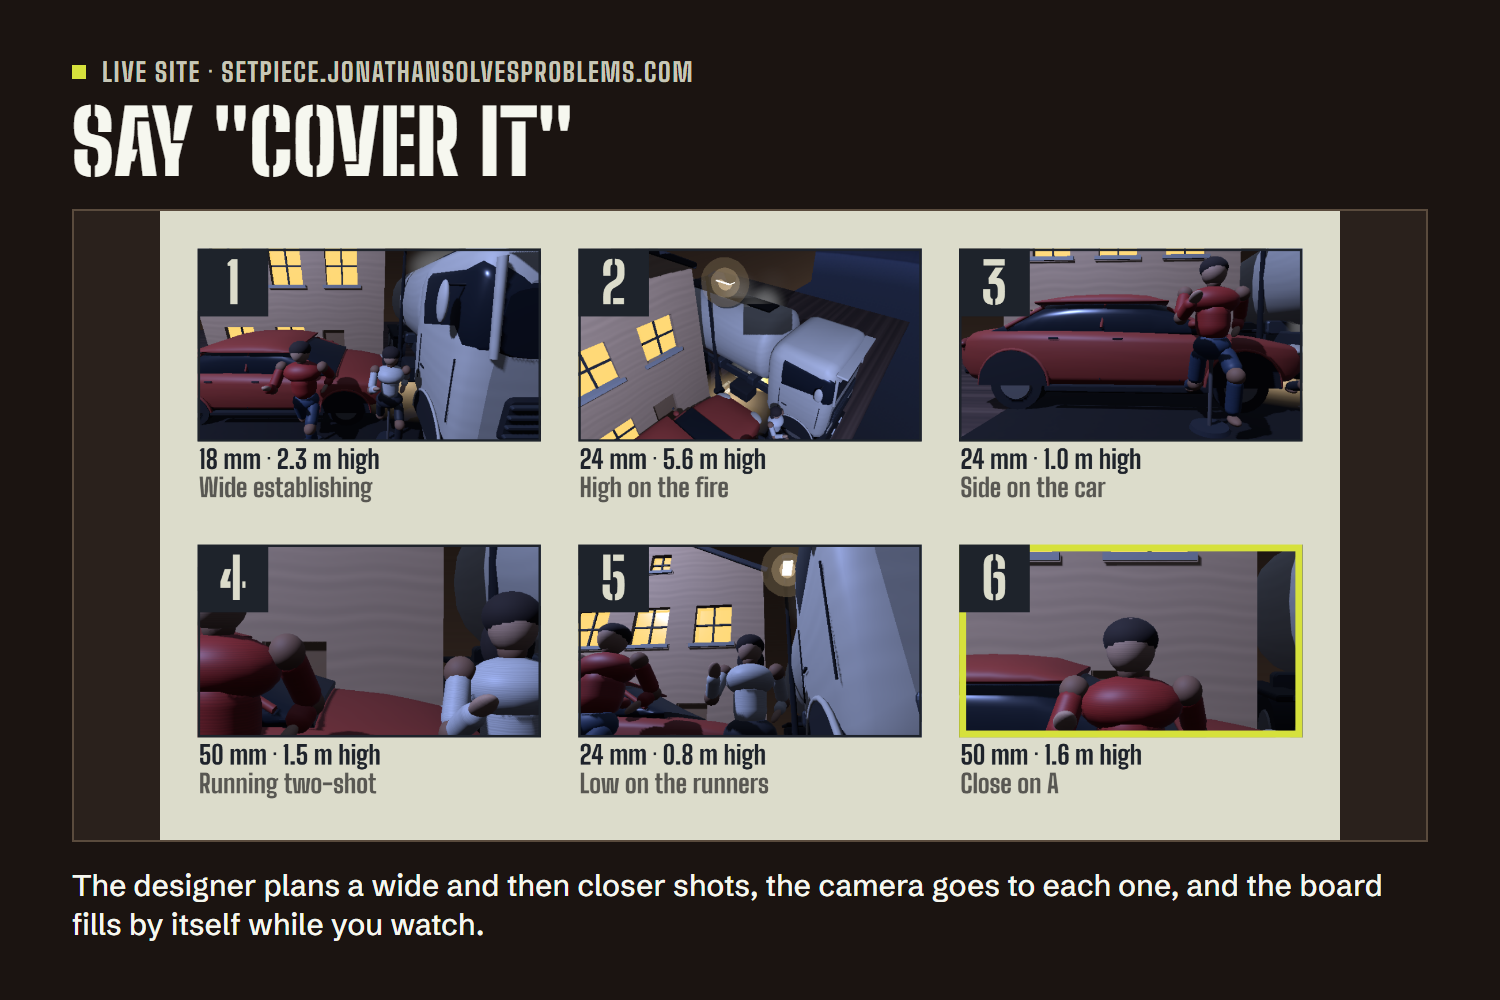
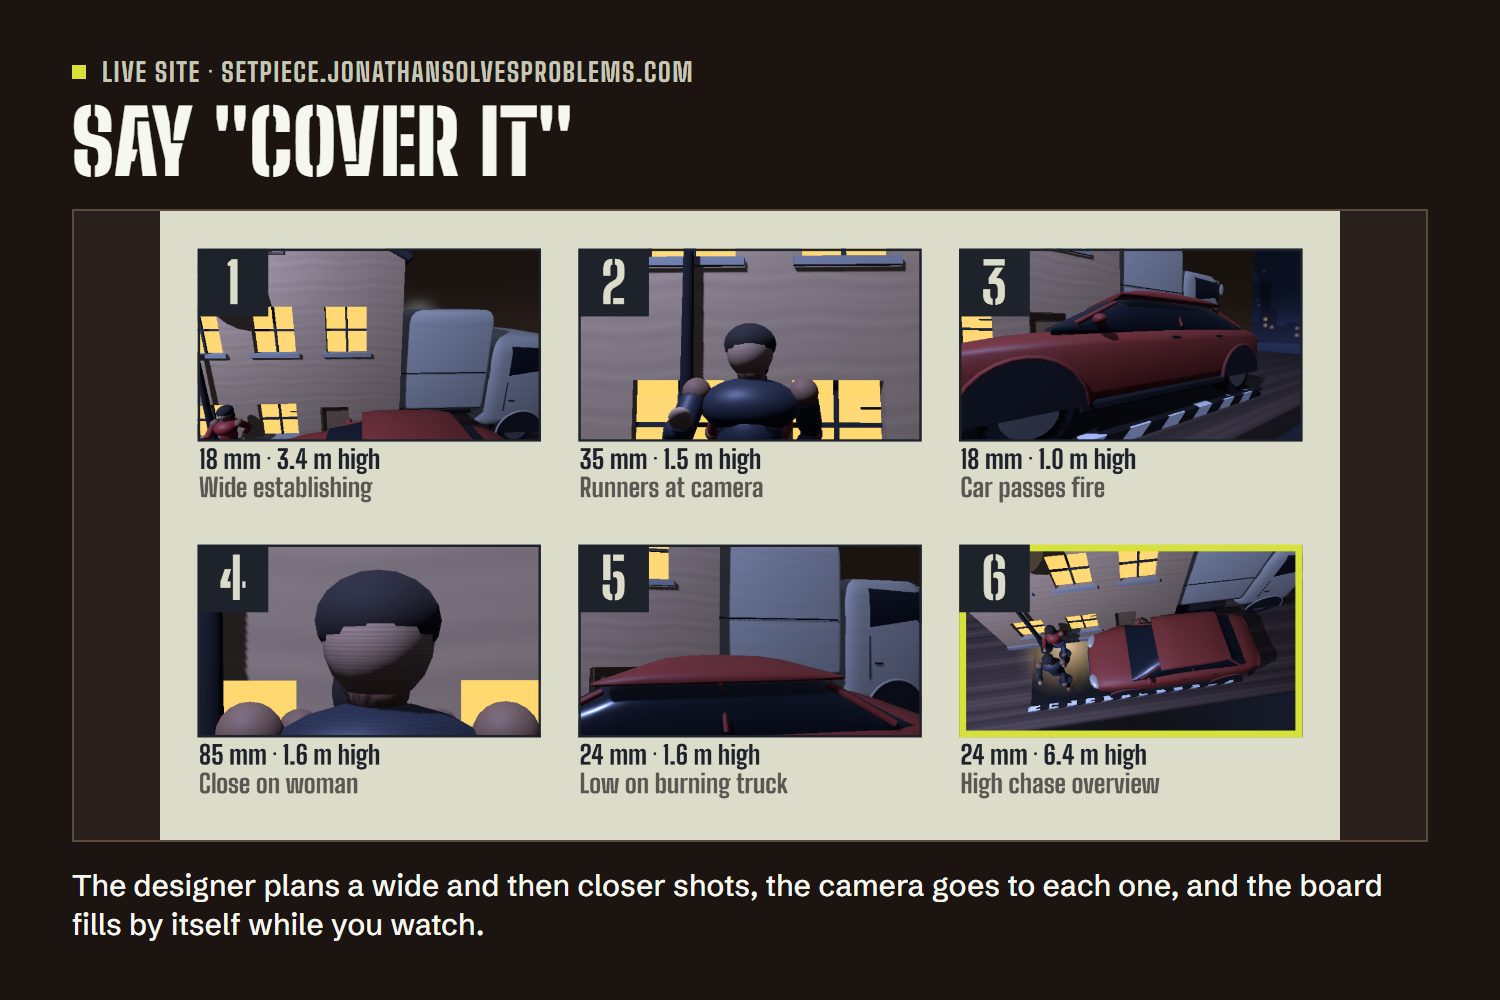
Fire the designer puts inside a truck burns from the truck's roof: it stood on the ground inside the box, hidden; smoke, sparks and an explosion the same. The saved-board slide shows the shot list as a table

diff --git a/src/director.ts b/src/director.ts
@@ -86,6 +86,14 @@ const ROOM = { halfX: 0.3, halfZ: 0.2, overhang: 0.01, bodyGap: 0.01, solidGap: 
 const BODY_HALF = 0.025;
 /** Higher than this off the ground, a piece is up on something or flying, and the set dresser leaves it be. */
 const RAISED = 0.01;
+/**
+ * How tall each burning effect is, on the slate. One standing on the ground inside a solid piece taller than this
+ * share of it is hidden, and is stood so that this share of it is sunk below the piece's top: fire on a truck burns
+ * from the truck's roof, not inside its box.
+ */
+const BURNS: Record<string, number> = { Fire: 0.18, Smoke: 0.3, Sparks: 0.12, Explosion: 0.2 };
+const BURN_HIDDEN = 0.45;
+const BURN_SUNK = 0.3;
 /** A piece the set dresser moves less than this (slate metres, 10 cm real) is slid, not dropped again. */
 const NUDGE = 0.01;
 /** A raised piece rests on a top no more than this above its own height (slate metres, 6 cm real). */
@@ -768,6 +776,7 @@ class PlanBuild {
     // roof slab, not on the chimney, and not on a taller truck parked beside the house); an effect on the ground
     // stands on the smallest footprint around it (the car, not the house front behind it).
     const under = new Map<Standing, Standing>();
+    const lifts: [Standing, number][] = [];
     const supports: { one: Standing; foot: Footing; top: number }[] = [];
     for (const one of standing) {
       if (one.base.shelf === 'Effects' || one.rest > RAISED) continue;
@@ -785,6 +794,7 @@ class PlanBuild {
       if (one.base.shelf !== 'Effects' && one.rest <= RAISED) continue;
       const raised = one.rest > RAISED;
       let best: Standing | null = null;
+      let bestTop = 0;
       let score = Infinity;
       for (const support of supports) {
         if (support.one === one || !holds(support.foot, one.object.position.x, one.object.position.z)) continue;
@@ -793,9 +803,13 @@ class PlanBuild {
         if (value < score) {
           score = value;
           best = support.one;
+          bestTop = support.top;
         }
       }
       if (best != null) under.set(one, best);
+      // Flames put on the ground inside the thing that burns are hidden by it: they go up to burn from its top.
+      const reach = BURNS[one.base.spareOf ?? one.base.label];
+      if (best != null && !raised && reach !== undefined && this.placed.has(one.label) && bestTop > reach * BURN_HIDDEN) lifts.push([one, bestTop - reach * BURN_SUNK]);
     }
     const moves: Moved[] = [];
     const apply = (feet: Footing[], owners: (Standing | null)[]): void => {
@@ -865,6 +879,11 @@ class PlanBuild {
     // A piece moved far enough to see drops onto its new mark; a nudge is only a nudge.
     for (const move of moves) {
       if (Math.hypot(move.dx, move.dz) >= NUDGE) drop(move.standing.entity, move.standing.object, move.standing.rest);
+    }
+    for (const [one, y] of lifts) {
+      one.rest = y;
+      this.restY.set(one.label, y);
+      drop(one.entity, one.object, y);
     }
     this.world.getSystem(ViewfinderSystem)?.refresh();
     return moves.length;

diff --git a/tools/gallery.py b/tools/gallery.py
@@ -121,7 +121,7 @@ SLIDES = [
     dict(slug='fps', badge='Result · devpost/results/quest-frame-rate.json and quest-frame-time.json', headline='{fps_median} frames a second, median', picture=('result', 'fps'),
          caption='{fps_samples} one-second samples, {fps_days} Nov: median {fps_median}, lowest {fps_min}. A heavier set on 11 Nov ran at {heavy_fps}, {heavy_then}.'),
     dict(slug='leave', badge=LIVE_BADGE, headline='You leave holding something', picture=('live', 'exports'),
-         caption='Saved from the page: the board the designer shot, each frame with its numbers and its name, and the shot list as a CSV for the crew.'),
+         caption='Saved from the page: the board the designer shot, each frame with its lens and height, and the shot list as a CSV for the crew.'),
     dict(slug='camera', badge=QUEST, headline='Format, rig, second camera', picture='captures/quest-camera-tab.jpg',
          caption='Four sensor formats, a tripod or a drone up to 11 m on the real set, and a second camera you can cut to while a take records.'),
 ]
@@ -594,24 +594,36 @@ async def live_capture(browser, recipe: str, out: Path) -> Path:
                 csv_path = out / 'saved-shot-list.csv'
                 await (await waiting.value).save_as(str(csv_path))
                 board = Image.open(board_path).convert('RGB')
-                rows = list(csv.reader(io.StringIO(csv_path.read_text(encoding='utf-8'))))[:4]
-                width, height = 2400, 1300
+                rows = list(csv.reader(io.StringIO(csv_path.read_text(encoding='utf-8'))))
+                # As wide as the slide's picture frame (1356 by 632), so nothing is left dark around it.
+                width, height = 2712, 1264
                 sheet = Image.new('RGB', (width, height), (42, 33, 28))
-                bw = 1500
+                bw = 1720
                 bh = int(board.height * bw / board.width)
-                sheet.paste(board.resize((bw, bh)), (0, (height - bh) // 2))
+                sheet.paste(board.resize((bw, bh)), (40, (height - bh) // 2))
                 draw = ImageDraw.Draw(sheet)
-                font = ImageFont.truetype(str(ROOT / 'public/ui/fonts/SchibstedGrotesk-Medium.ttf'), 30)
-                head = ImageFont.truetype(str(ROOT / 'public/ui/fonts/BigShoulders-Bold.ttf'), 40)
-                draw.text((1560, 60), 'SETPIECE-SHOT-LIST.CSV', font=head, fill=(199, 199, 183))
-                y = 140
+                font = ImageFont.truetype(str(ROOT / 'public/ui/fonts/SchibstedGrotesk-Medium.ttf'), 38)
+                head = ImageFont.truetype(str(ROOT / 'public/ui/fonts/BigShoulders-Bold.ttf'), 46)
+                left = bw + 110
+                draw.text((left, 150), 'SETPIECE-SHOT-LIST.CSV', font=head, fill=(214, 225, 60))
                 header, body = rows[0], rows[1:]
-                for record in body:
-                    for name, cell in list(zip(header, record))[:5]:
-                        draw.text((1560, y), name, font=font, fill=(199, 199, 183))
-                        draw.text((1990, y), cell, font=font, fill=(246, 247, 239))
-                        y += 40
-                    y += 30
+                at = {name: header.index(name) for name in ('Frame', 'Shot', 'Lens mm', 'Camera height m')}
+                columns = [('Frame', '#', 0), ('Shot', 'SHOT', 70), ('Lens mm', 'LENS', 520), ('Camera height m', 'HEIGHT', 680)]
+                y = 240
+                for name, title, x in columns:
+                    draw.text((left + x, y), title, font=head, fill=(199, 199, 183))
+                y += 70
+                draw.line((left, y - 8, width - 60, y - 8), fill=(90, 75, 61), width=3)
+                for record in body[:6]:
+                    for name, title, x in columns:
+                        cell = record[at[name]]
+                        if name == 'Lens mm':
+                            cell += ' mm'
+                        if name == 'Camera height m':
+                            cell = f'{float(cell):.1f} m'
+                        draw.text((left + x, y + 14), cell[:22], font=font, fill=(246, 247, 239))
+                    y += 88
+                    draw.line((left, y - 6, width - 60, y - 6), fill=(60, 50, 42), width=2)
                 sheet.save(png)
     elif recipe == 'standoff':
         await say('a mexican standoff after a car chase')

diff --git a/devpost/gallery/captions.md b/devpost/gallery/captions.md
@@ -53,5 +53,5 @@ Spoken on the headset: the first piece 1.6 s after the last word, the whole set 
 ## 09 leave
 
 ```
-Saved from the page: the board the designer shot, each frame with its numbers and its name, and the shot list as a CSV for the crew.
+Saved from the page: the board the designer shot, each frame with its lens and height, and the shot list as a CSV for the crew.
 ```
